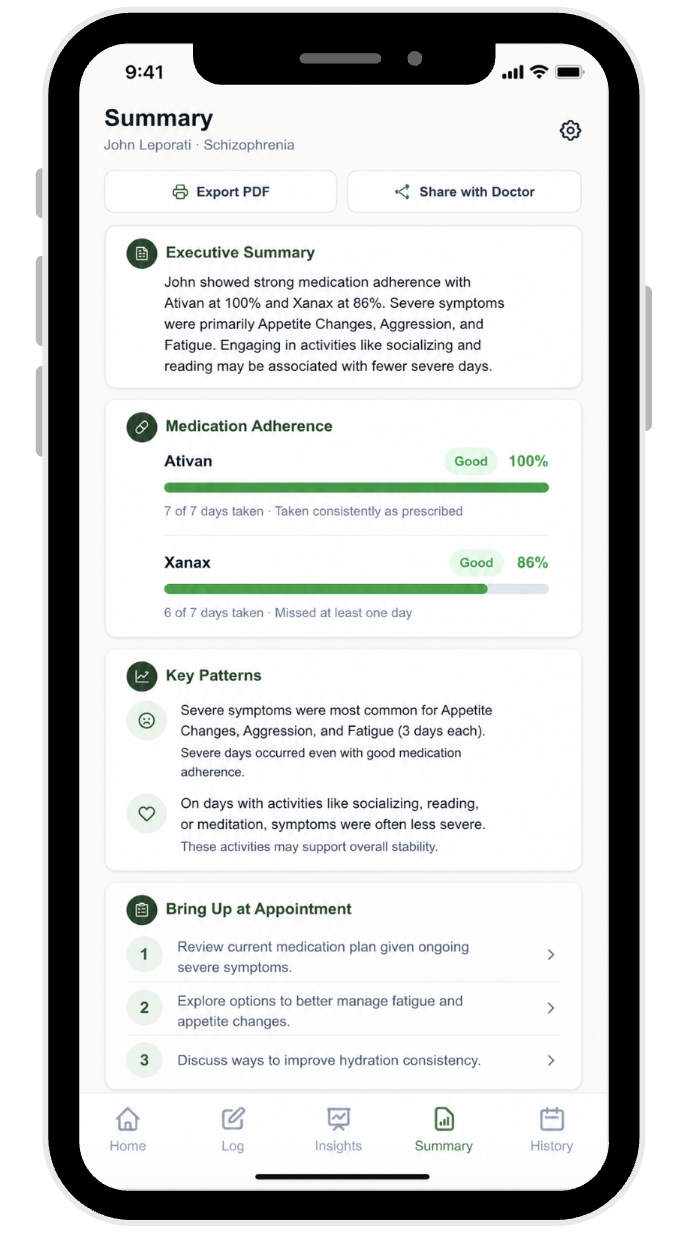
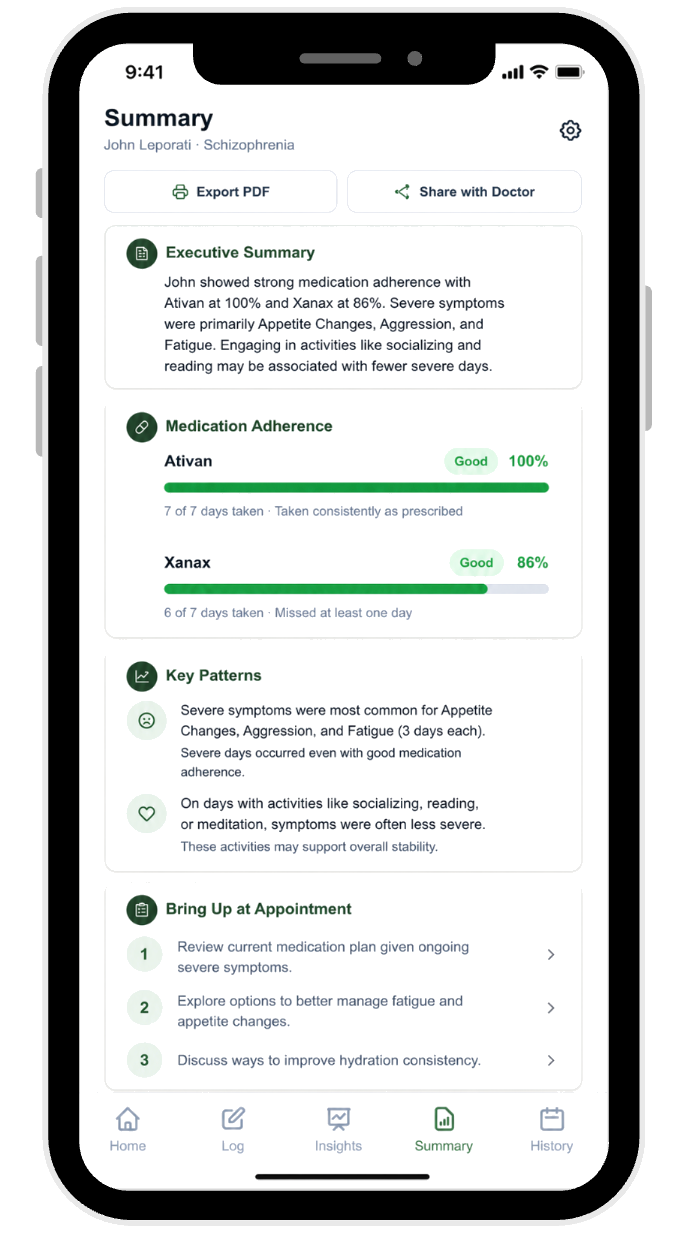
Remove white backgrounds from showcase PNGs natively
Used Sharp to zero-alpha all pixels with R>240 G>240 B>240 on all three
phone screenshots. Images are now natively transparent PNGs, so mix-blend-mode
is no longer needed and has been removed from the CSS.

Changed region(s): [[0.24, 0.3744, 0.78, 0.4056], [0.24, 0.468, 0.69, 0.4992]]

diff --git a/app/page.tsx b/app/page.tsx
@@ -249,7 +249,7 @@ export default function LandingPage() {
           <div className="showcase-row lp-reveal" style={{ display: "grid", gridTemplateColumns: "380px 1fr", gap: "4rem", alignItems: "center", padding: "64px 0" }}>
             <div style={{ position: "relative", display: "flex", justifyContent: "center", margin: "-20px 0" }}>
               <div style={{ position: "absolute", top: -60, left: -60, right: -60, bottom: -60, background: "radial-gradient(ellipse at 50% 50%, rgba(27,58,45,0.1) 0%, transparent 65%)", filter: "blur(28px)", zIndex: 0, pointerEvents: "none" }} />
-              <img src="/AdvocateHome.png" alt="Advocate Dashboard" style={{ width: "100%", display: "block", boxShadow: "0 24px 60px rgba(0,0,0,0.12)", transform: "rotate(-4deg)", transformOrigin: "center", position: "relative", zIndex: 1, mixBlendMode: "multiply" }} />
+              <img src="/AdvocateHome.png" alt="Advocate Dashboard" style={{ width: "100%", display: "block", boxShadow: "0 24px 60px rgba(0,0,0,0.12)", transform: "rotate(-4deg)", transformOrigin: "center", position: "relative", zIndex: 1 }} />
             </div>
             <div>
               <div style={{ display: "inline-flex", alignItems: "center", gap: 6, background: "#e8f0eb", color: "#1B3A2D", fontSize: "0.72rem", fontWeight: 600, letterSpacing: "0.1em", textTransform: "uppercase", padding: "4px 12px", borderRadius: 100, marginBottom: 20 }}>
@@ -309,7 +309,7 @@ export default function LandingPage() {
             </div>
             <div className="showcase-img-mobile-first" style={{ position: "relative", display: "flex", justifyContent: "center", margin: "-20px 0" }}>
               <div style={{ position: "absolute", top: -60, left: -60, right: -60, bottom: -60, background: "radial-gradient(ellipse at 50% 50%, rgba(27,58,45,0.1) 0%, transparent 65%)", filter: "blur(28px)", zIndex: 0, pointerEvents: "none" }} />
-              <img src="/Advocate_Daily_log.png" alt="Advocate Daily Log" style={{ width: "100%", display: "block", boxShadow: "0 24px 60px rgba(0,0,0,0.12)", transform: "rotate(4deg)", transformOrigin: "center", position: "relative", zIndex: 1, mixBlendMode: "multiply" }} />
+              <img src="/Advocate_Daily_log.png" alt="Advocate Daily Log" style={{ width: "100%", display: "block", boxShadow: "0 24px 60px rgba(0,0,0,0.12)", transform: "rotate(4deg)", transformOrigin: "center", position: "relative", zIndex: 1 }} />
             </div>
           </div>
 
@@ -319,7 +319,7 @@ export default function LandingPage() {
           <div className="showcase-row lp-reveal" style={{ display: "grid", gridTemplateColumns: "1fr 1fr", gap: "4rem", alignItems: "center", padding: "64px 0" }}>
             <div style={{ position: "relative", display: "flex", justifyContent: "center", margin: "-20px 0" }}>
               <div style={{ position: "absolute", top: -60, left: -60, right: -60, bottom: -60, background: "radial-gradient(ellipse at 50% 50%, rgba(27,58,45,0.1) 0%, transparent 65%)", filter: "blur(28px)", zIndex: 0, pointerEvents: "none" }} />
-              <img src="/AdvocateSummary.png" alt="Advocate Doctor Summary" style={{ width: "100%", display: "block", boxShadow: "0 24px 60px rgba(0,0,0,0.12)", position: "relative", zIndex: 1, mixBlendMode: "multiply" }} />
+              <img src="/AdvocateSummary.png" alt="Advocate Doctor Summary" style={{ width: "100%", display: "block", boxShadow: "0 24px 60px rgba(0,0,0,0.12)", position: "relative", zIndex: 1 }} />
             </div>
             <div>
               <div style={{ display: "inline-flex", alignItems: "center", gap: 6, background: "#e8f0eb", color: "#1B3A2D", fontSize: "0.72rem", fontWeight: 600, letterSpacing: "0.1em", textTransform: "uppercase", padding: "4px 12px", borderRadius: 100, marginBottom: 20 }}>
